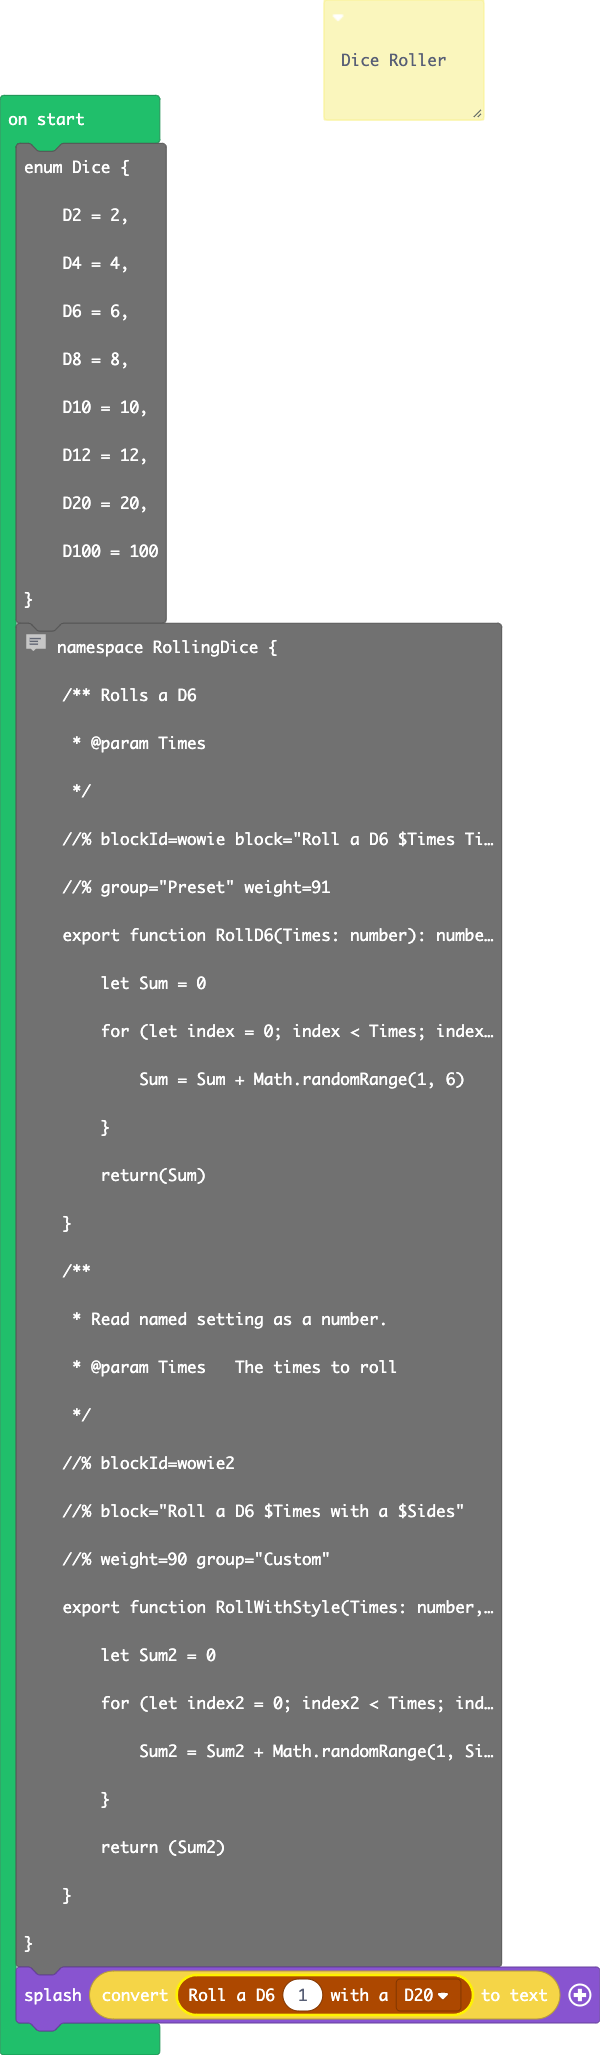
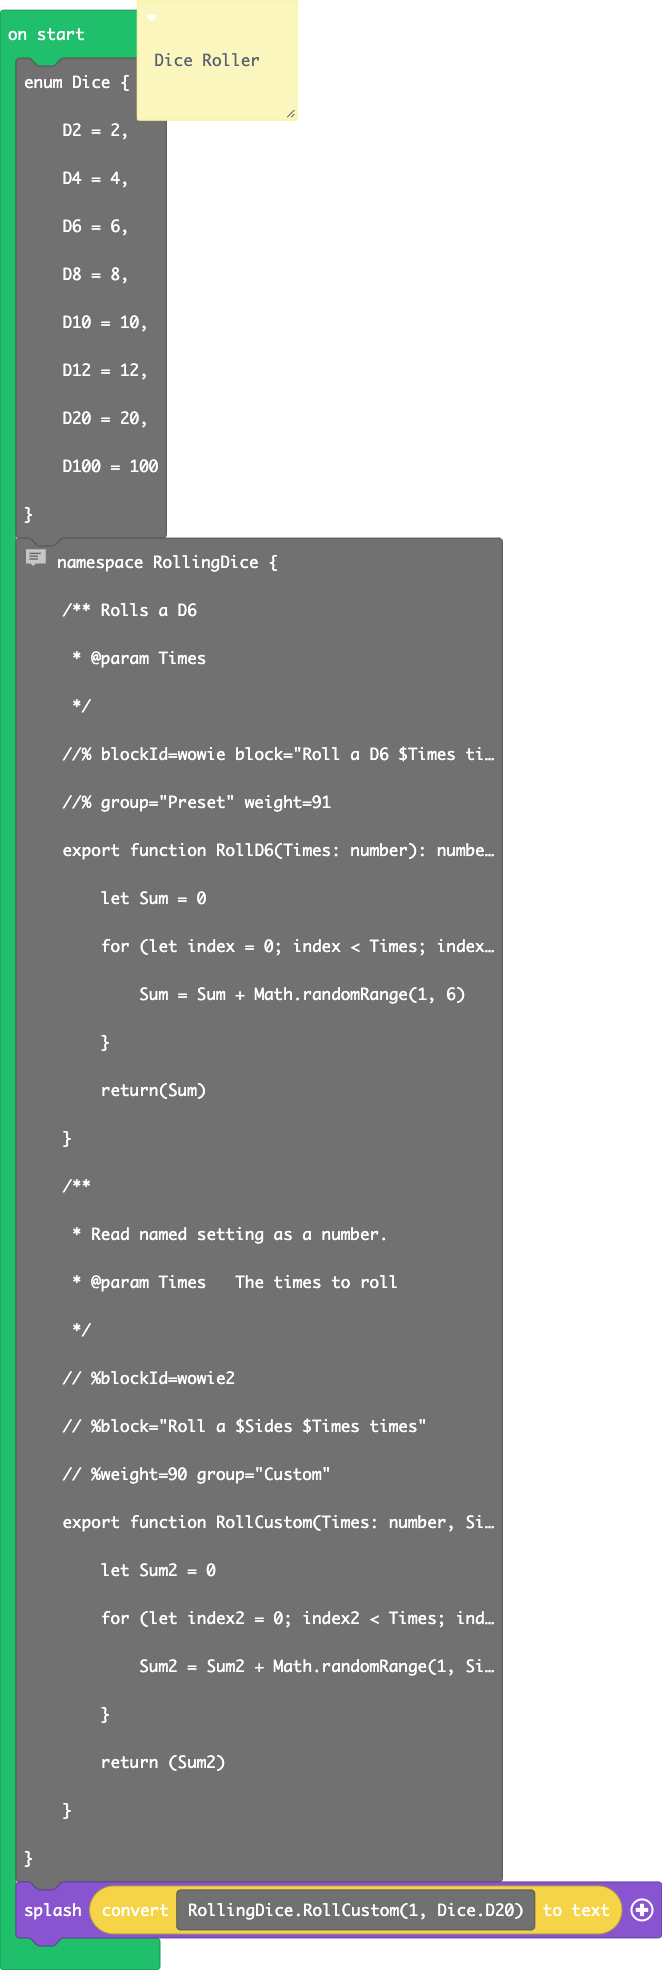
Update main.blocks, main.ts

diff --git a/main.ts b/main.ts
@@ -11,11 +11,10 @@ enum Dice {
     D20 = 20,
     D100 = 100
 }
-//% color="#ad4800" icon="\u2684" block="Dice"
-//% weight=42
+//% color="#ad4800" icon="\u2684" block="Dice" weight=42
 namespace RollingDice {
     /** Rolls a D6
-     * @param Times
+     * @param Times    The times to roll
      */
     //% blockId=wowie block="Roll a D6 $Times times"
     //% group="Preset" weight=91
@@ -27,12 +26,11 @@ namespace RollingDice {
         return(Sum)
     }
     /**
-     * Read named setting as a number.
+     * Roll a custom die.
      * @param Times   The times to roll
+     * @param Sides . The Sides of a dice
      */
-    // %blockId=wowie2
-    // %block="Roll a $Sides $Times times"
-    // %weight=90 group="Custom"
+    //% blockId=wowie2 block="Roll a $Sides $Times times" weight=90 group="Custom"
     export function RollCustom(Times: number, Sides: Dice): number {
         let Sum2 = 0
         for (let index2 = 0; index2 < Times; index2++) {
